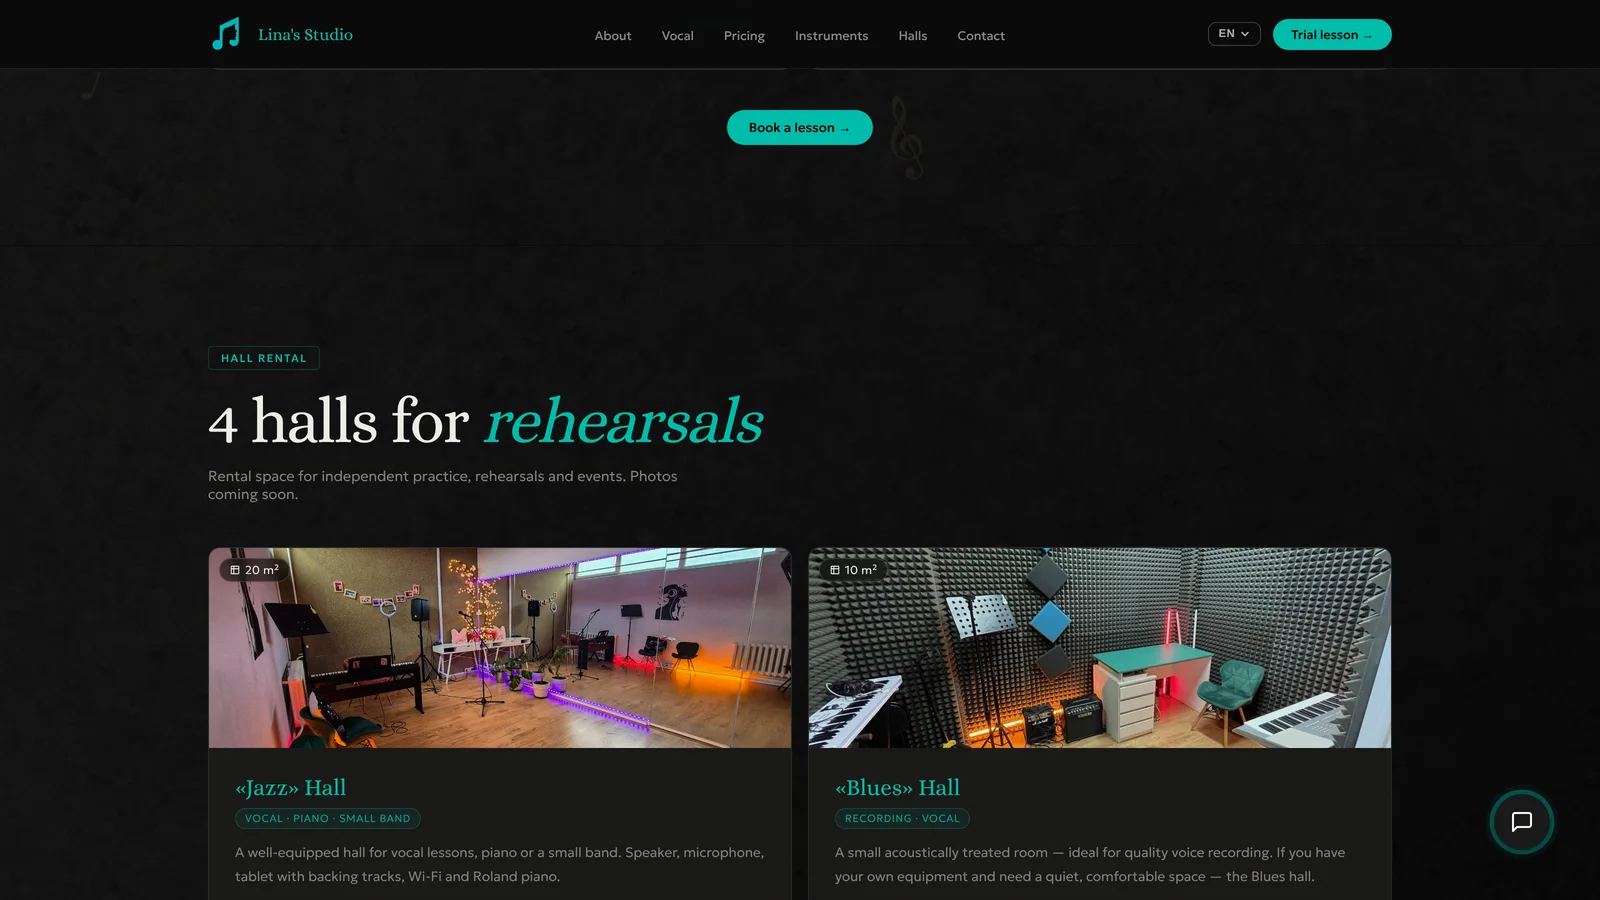
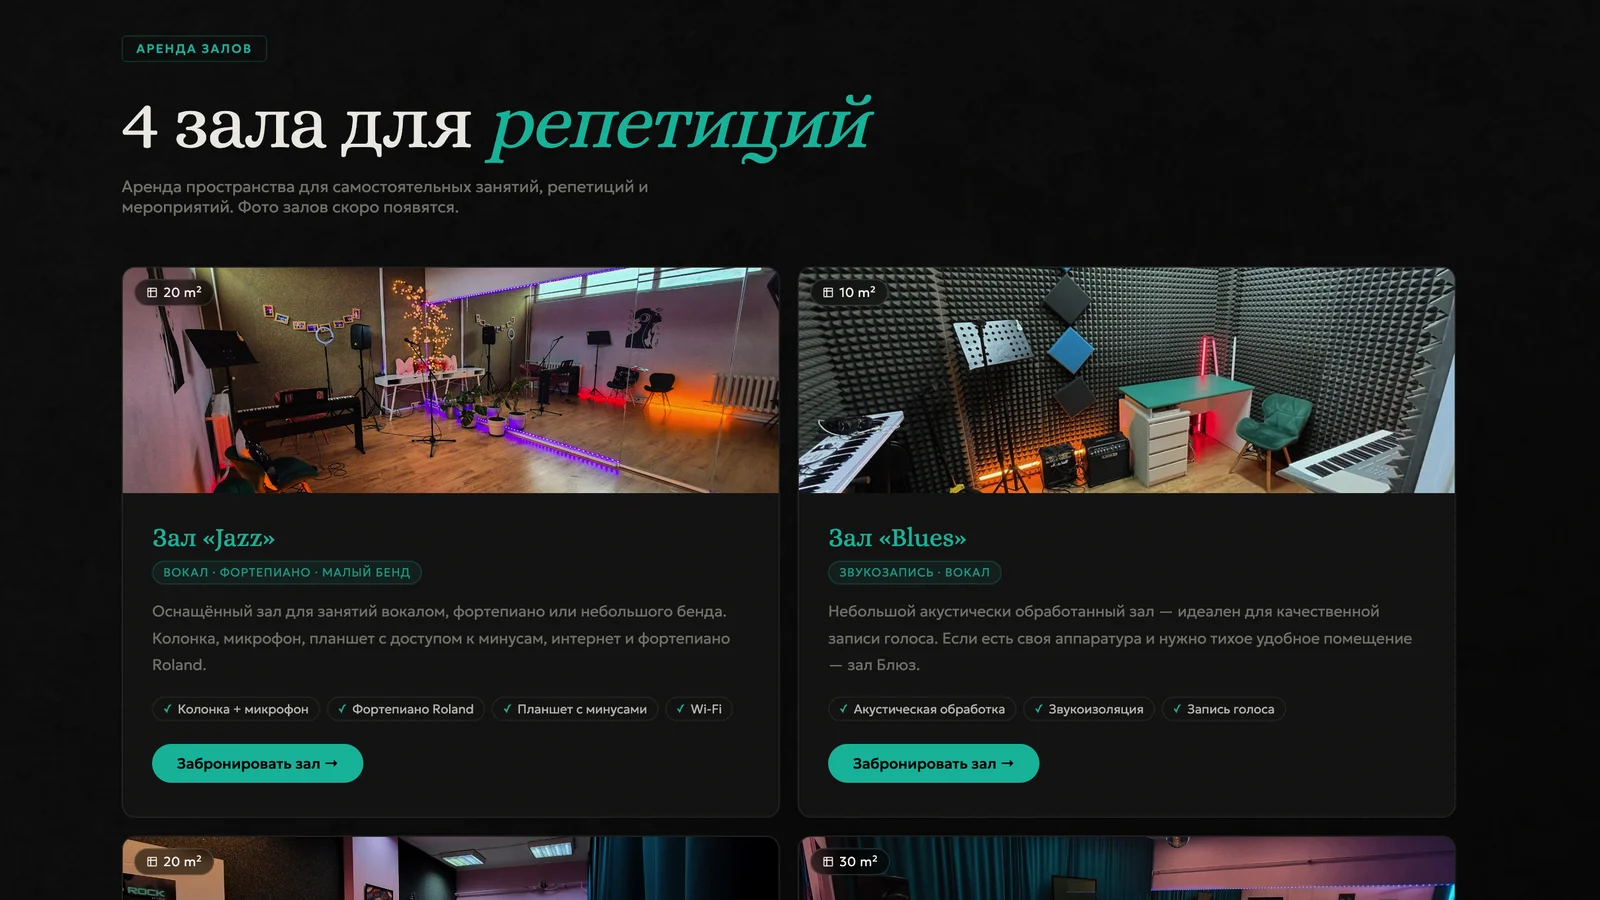
Lina's Studio: use Lana's screenshots for shots 2-3 (founder, rehearsal halls)
Claude-Session: https://claude.ai/code/session_01V7UVypz3NbDPX4nkU3ToFa

diff --git a/index.html b/index.html
@@ -36,7 +36,7 @@
 <section class="work section-pad" id="work"><div class="work-arrival"><div class="work-arrival-pin"><div class="section-heading"><div><p class="eyebrow"><i></i> 03 / SELECTED WORK</p><h2>Less talking.<br><span class="serif">More making.</span></h2></div><div><p>A few things we’ve put into the world.<br>Different challenges. The same care.</p><span class="mono work-hint">SCROLL TO UNSTACK ↓</span></div></div></div></div><div class="work-stack">
 <article class="project project-reelly" style="--index:0"><div class="project-info"><span class="mono">01 / REAL ESTATE PLATFORM</span><h3>Reelly<span>↗</span></h3><p>Finding a new perspective<br>on real estate.</p><div class="tags"><span>Product design</span><span>Development</span></div><button class="project-open" data-project="reelly">Explore project <span>↗</span></button><span class="project-index mono">[ 01 / 05 ]</span></div><button class="project-image" data-project="reelly" aria-label="Explore Reelly"><span class="shots"><img src="assets/work-reelly.webp" alt="Reelly AI website: AI ecosystem for real estate sellers with a mobile property search" loading="lazy"><img src="assets/work-reelly-2.webp" alt="Reelly mentors from top UAE market players" loading="lazy"><img src="assets/work-reelly-3.webp" alt="Reelly professional tools for off-plan agents" loading="lazy"></span><span>TAKE A CLOSER LOOK ↗</span></button></article>
 <article class="project project-trustmont" style="--index:1"><div class="project-info"><span class="mono">02 / WEBINAR LANDING</span><h3>Trustmont<span>↗</span></h3><p>An invitation that feels<br>like a ticket.</p><div class="tags"><span>UI / UX</span><span>Development</span><span>Registration</span></div><button class="project-open" data-project="trustmont">Explore project <span>↗</span></button><span class="project-index mono">[ 02 / 05 ]</span></div><button class="project-image" data-project="trustmont" aria-label="Explore Trustmont"><span class="shots"><img src="assets/work-trustmont.webp" alt="Trustmont Capital webinar landing with a dark hero and a ticket-style card" loading="lazy"><img src="assets/work-trustmont-2.webp" alt="Trustmont webinar speakers" loading="lazy"><img src="assets/work-trustmont-3.webp" alt="Trustmont webinar registration form" loading="lazy"></span><span>TAKE A CLOSER LOOK ↗</span></button></article>
-<article class="project project-lina" style="--index:2"><div class="project-info"><span class="mono">03 / MUSIC STUDIO WEBSITE</span><h3>Lina’s Studio<span>↗</span></h3><p>A stage for every<br>new voice.</p><div class="tags"><span>Web design</span><span>Development</span><span>Multilingual</span></div><button class="project-open" data-project="lina">Explore project <span>↗</span></button><span class="project-index mono">[ 03 / 05 ]</span></div><button class="project-image" data-project="lina" aria-label="Explore Lina’s Studio"><span class="shots"><img src="assets/work-lina.webp" alt="Lina’s Music Studio website with a concert photo and a trial lesson call to action" loading="lazy"><img src="assets/work-lina-2.webp" alt="Lina’s Studio vocal teachers" loading="lazy"><img src="assets/work-lina-3.webp" alt="Lina’s Studio rehearsal halls" loading="lazy"></span><span>TAKE A CLOSER LOOK ↗</span></button></article>
+<article class="project project-lina" style="--index:2"><div class="project-info"><span class="mono">03 / MUSIC STUDIO WEBSITE</span><h3>Lina’s Studio<span>↗</span></h3><p>A stage for every<br>new voice.</p><div class="tags"><span>Web design</span><span>Development</span><span>Multilingual</span></div><button class="project-open" data-project="lina">Explore project <span>↗</span></button><span class="project-index mono">[ 03 / 05 ]</span></div><button class="project-image" data-project="lina" aria-label="Explore Lina’s Studio"><span class="shots"><img src="assets/work-lina.webp" alt="Lina’s Music Studio website with a concert photo and a trial lesson call to action" loading="lazy"><img src="assets/work-lina-2.webp?v=2" alt="Lina’s Studio founder Lina Poverga" loading="lazy"><img src="assets/work-lina-3.webp?v=2" alt="Lina’s Studio rehearsal halls for rent" loading="lazy"></span><span>TAKE A CLOSER LOOK ↗</span></button></article>
 <article class="project project-money24" style="--index:3"><div class="project-info"><span class="mono">04 / INVESTMENT REAL ESTATE</span><h3>Money24<span>↗</span></h3><p>Property abroad,<br>returns made clear.</p><div class="tags"><span>UI / UX</span><span>Webflow</span><span>Lead form</span></div><button class="project-open" data-project="money24">Explore project <span>↗</span></button><span class="project-index mono">[ 04 / 05 ]</span></div><button class="project-image" data-project="money24" aria-label="Explore Money24 Estate"><span class="shots"><img src="assets/work-money24.webp" alt="Money24 Estate website: dark hero with an orange headline and a sea-view bedroom photo" loading="lazy"><img src="assets/work-money24-2.webp" alt="Money24 Estate investment projects" loading="lazy"><img src="assets/work-money24-3.webp" alt="Money24 Estate catalogue request form" loading="lazy"></span><span>TAKE A CLOSER LOOK ↗</span></button></article>
 <article class="project project-blissful" style="--index:4"><div class="project-info"><span class="mono">05 / ONLINE COURSE PLATFORM</span><h3>Blissful Birthing<span>↗</span></h3><p>A softer, golden path<br>to birth.</p><div class="tags"><span>Web design</span><span>Course platform</span><span>Sales page</span></div><button class="project-open" data-project="blissful">Explore project <span>↗</span></button><span class="project-index mono">[ 05 / 05 ]</span></div><button class="project-image" data-project="blissful" aria-label="Explore Blissful Birthing"><span class="shots"><img src="assets/work-blissful.webp" alt="Blissful Birthing course website with a golden script headline over a warm photo" loading="lazy"></span><span>TAKE A CLOSER LOOK ↗</span></button></article>
 </div></section>
